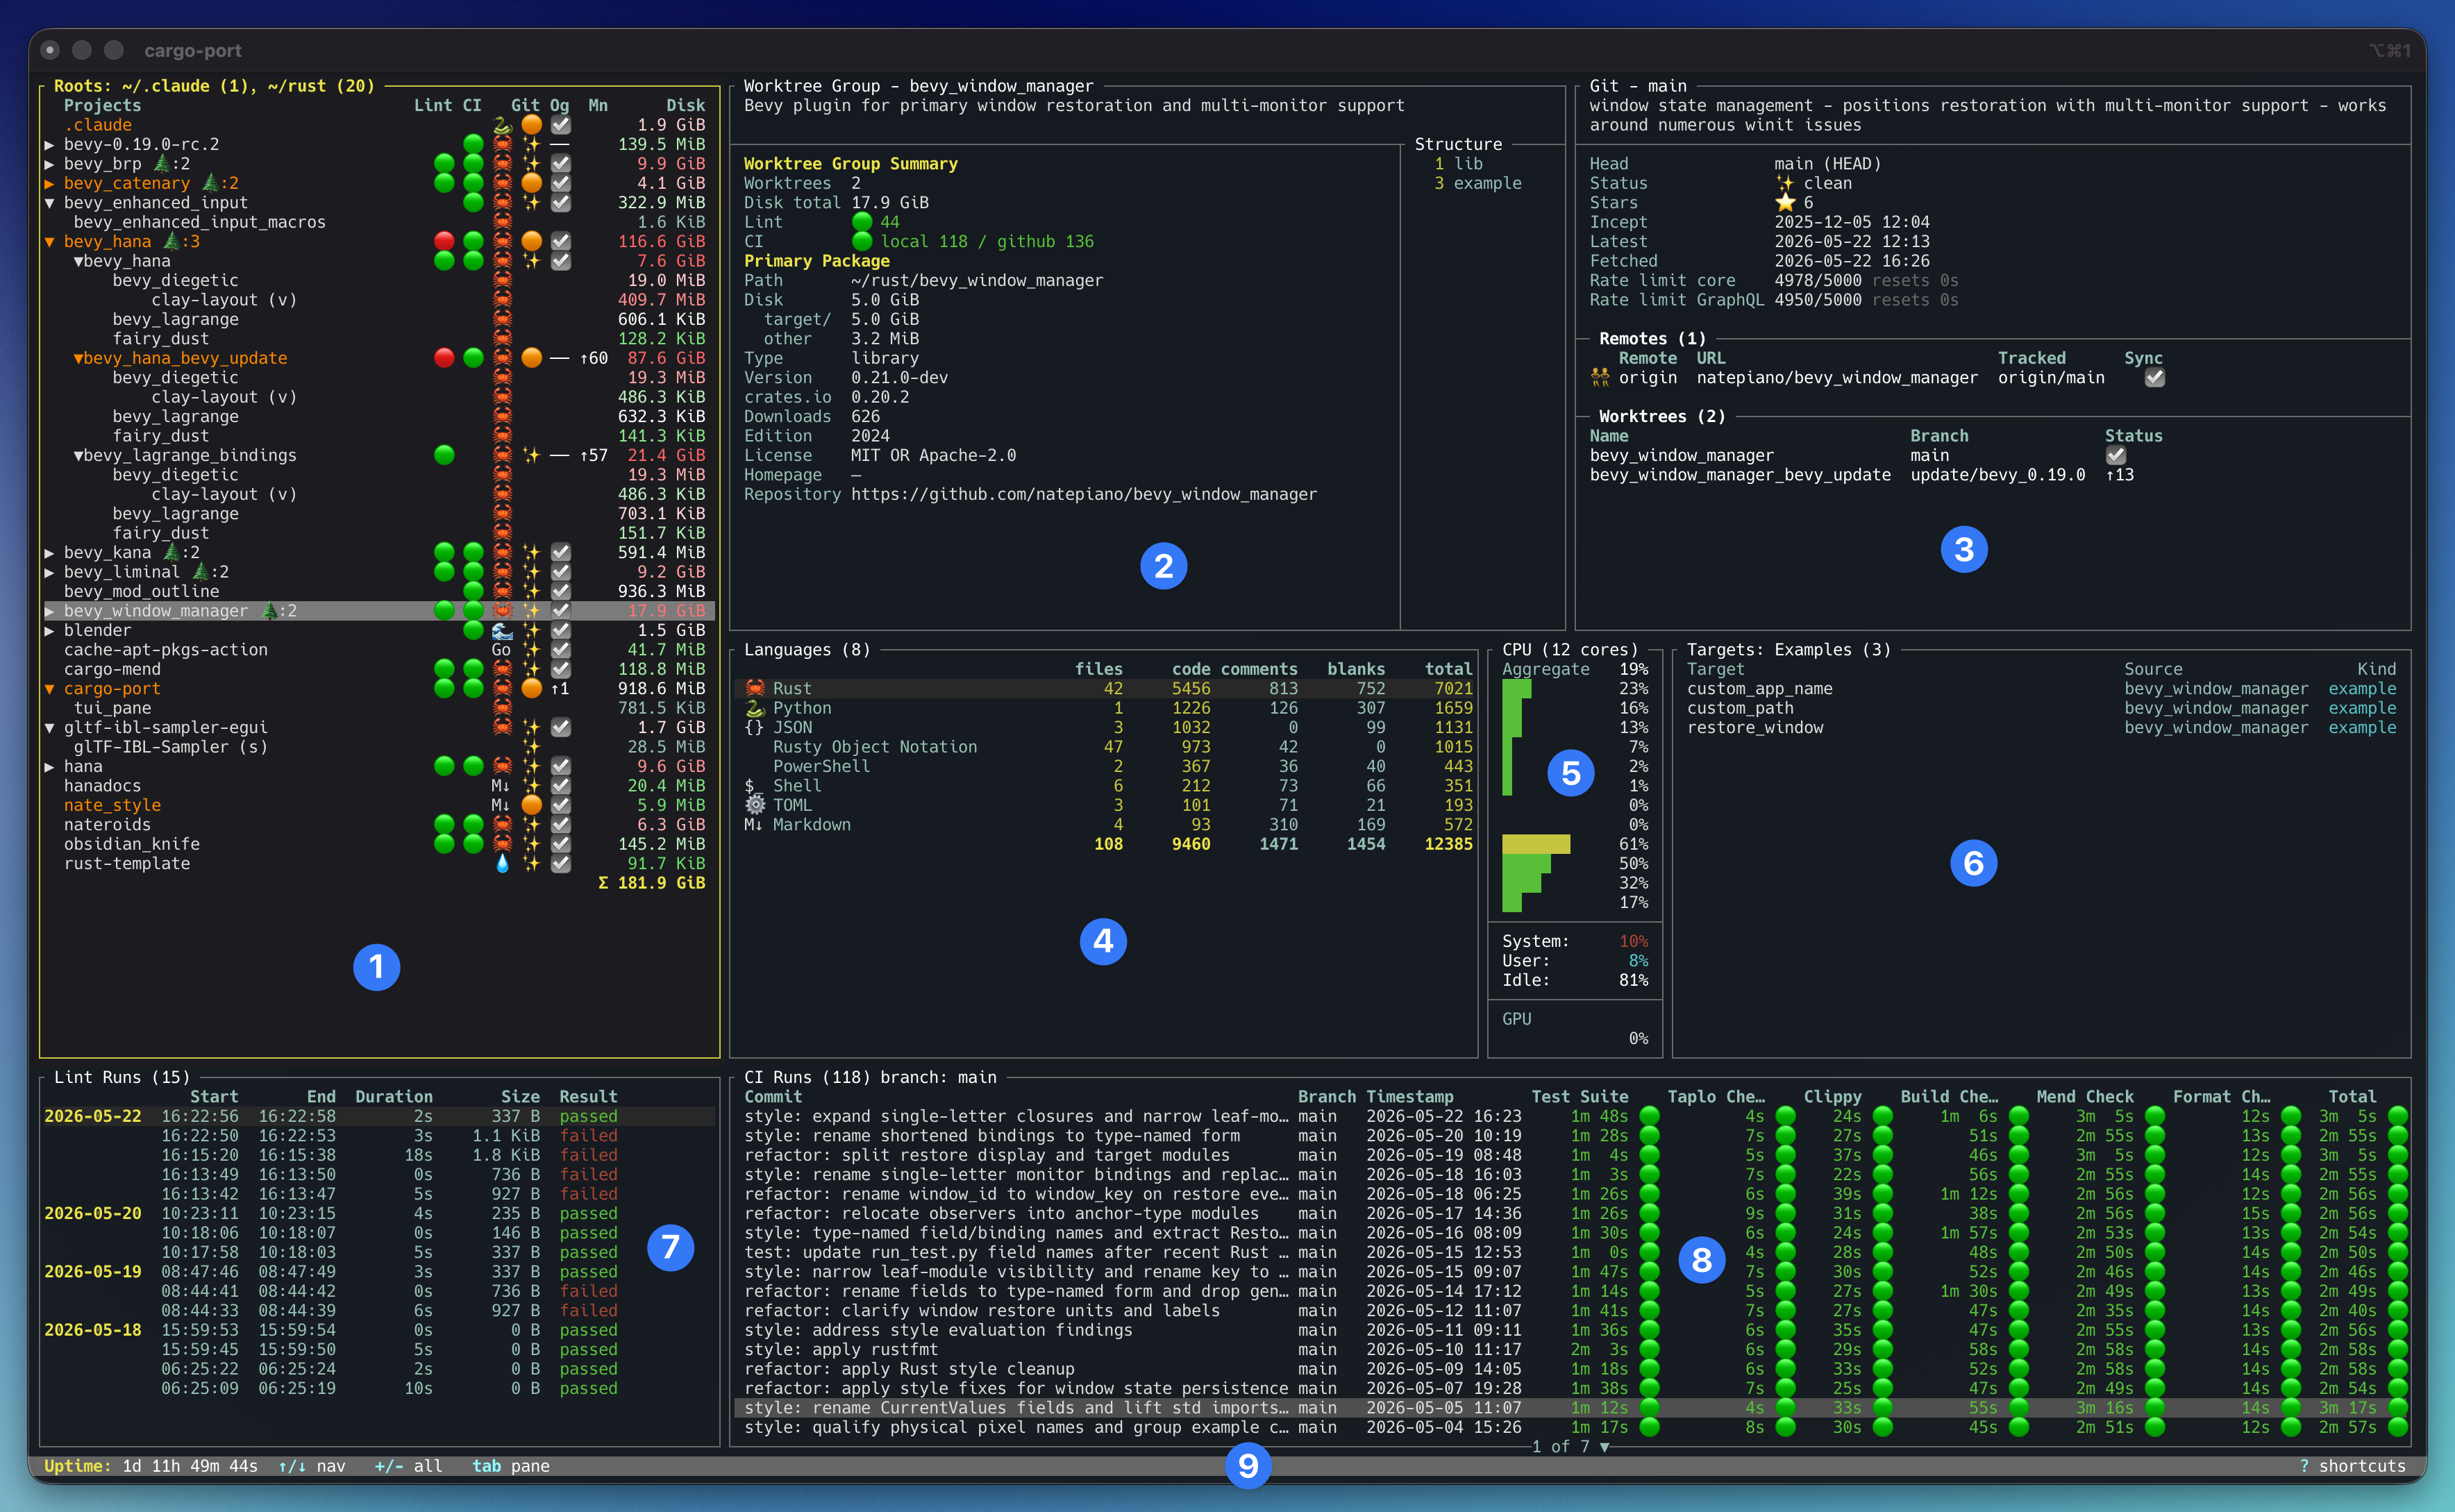
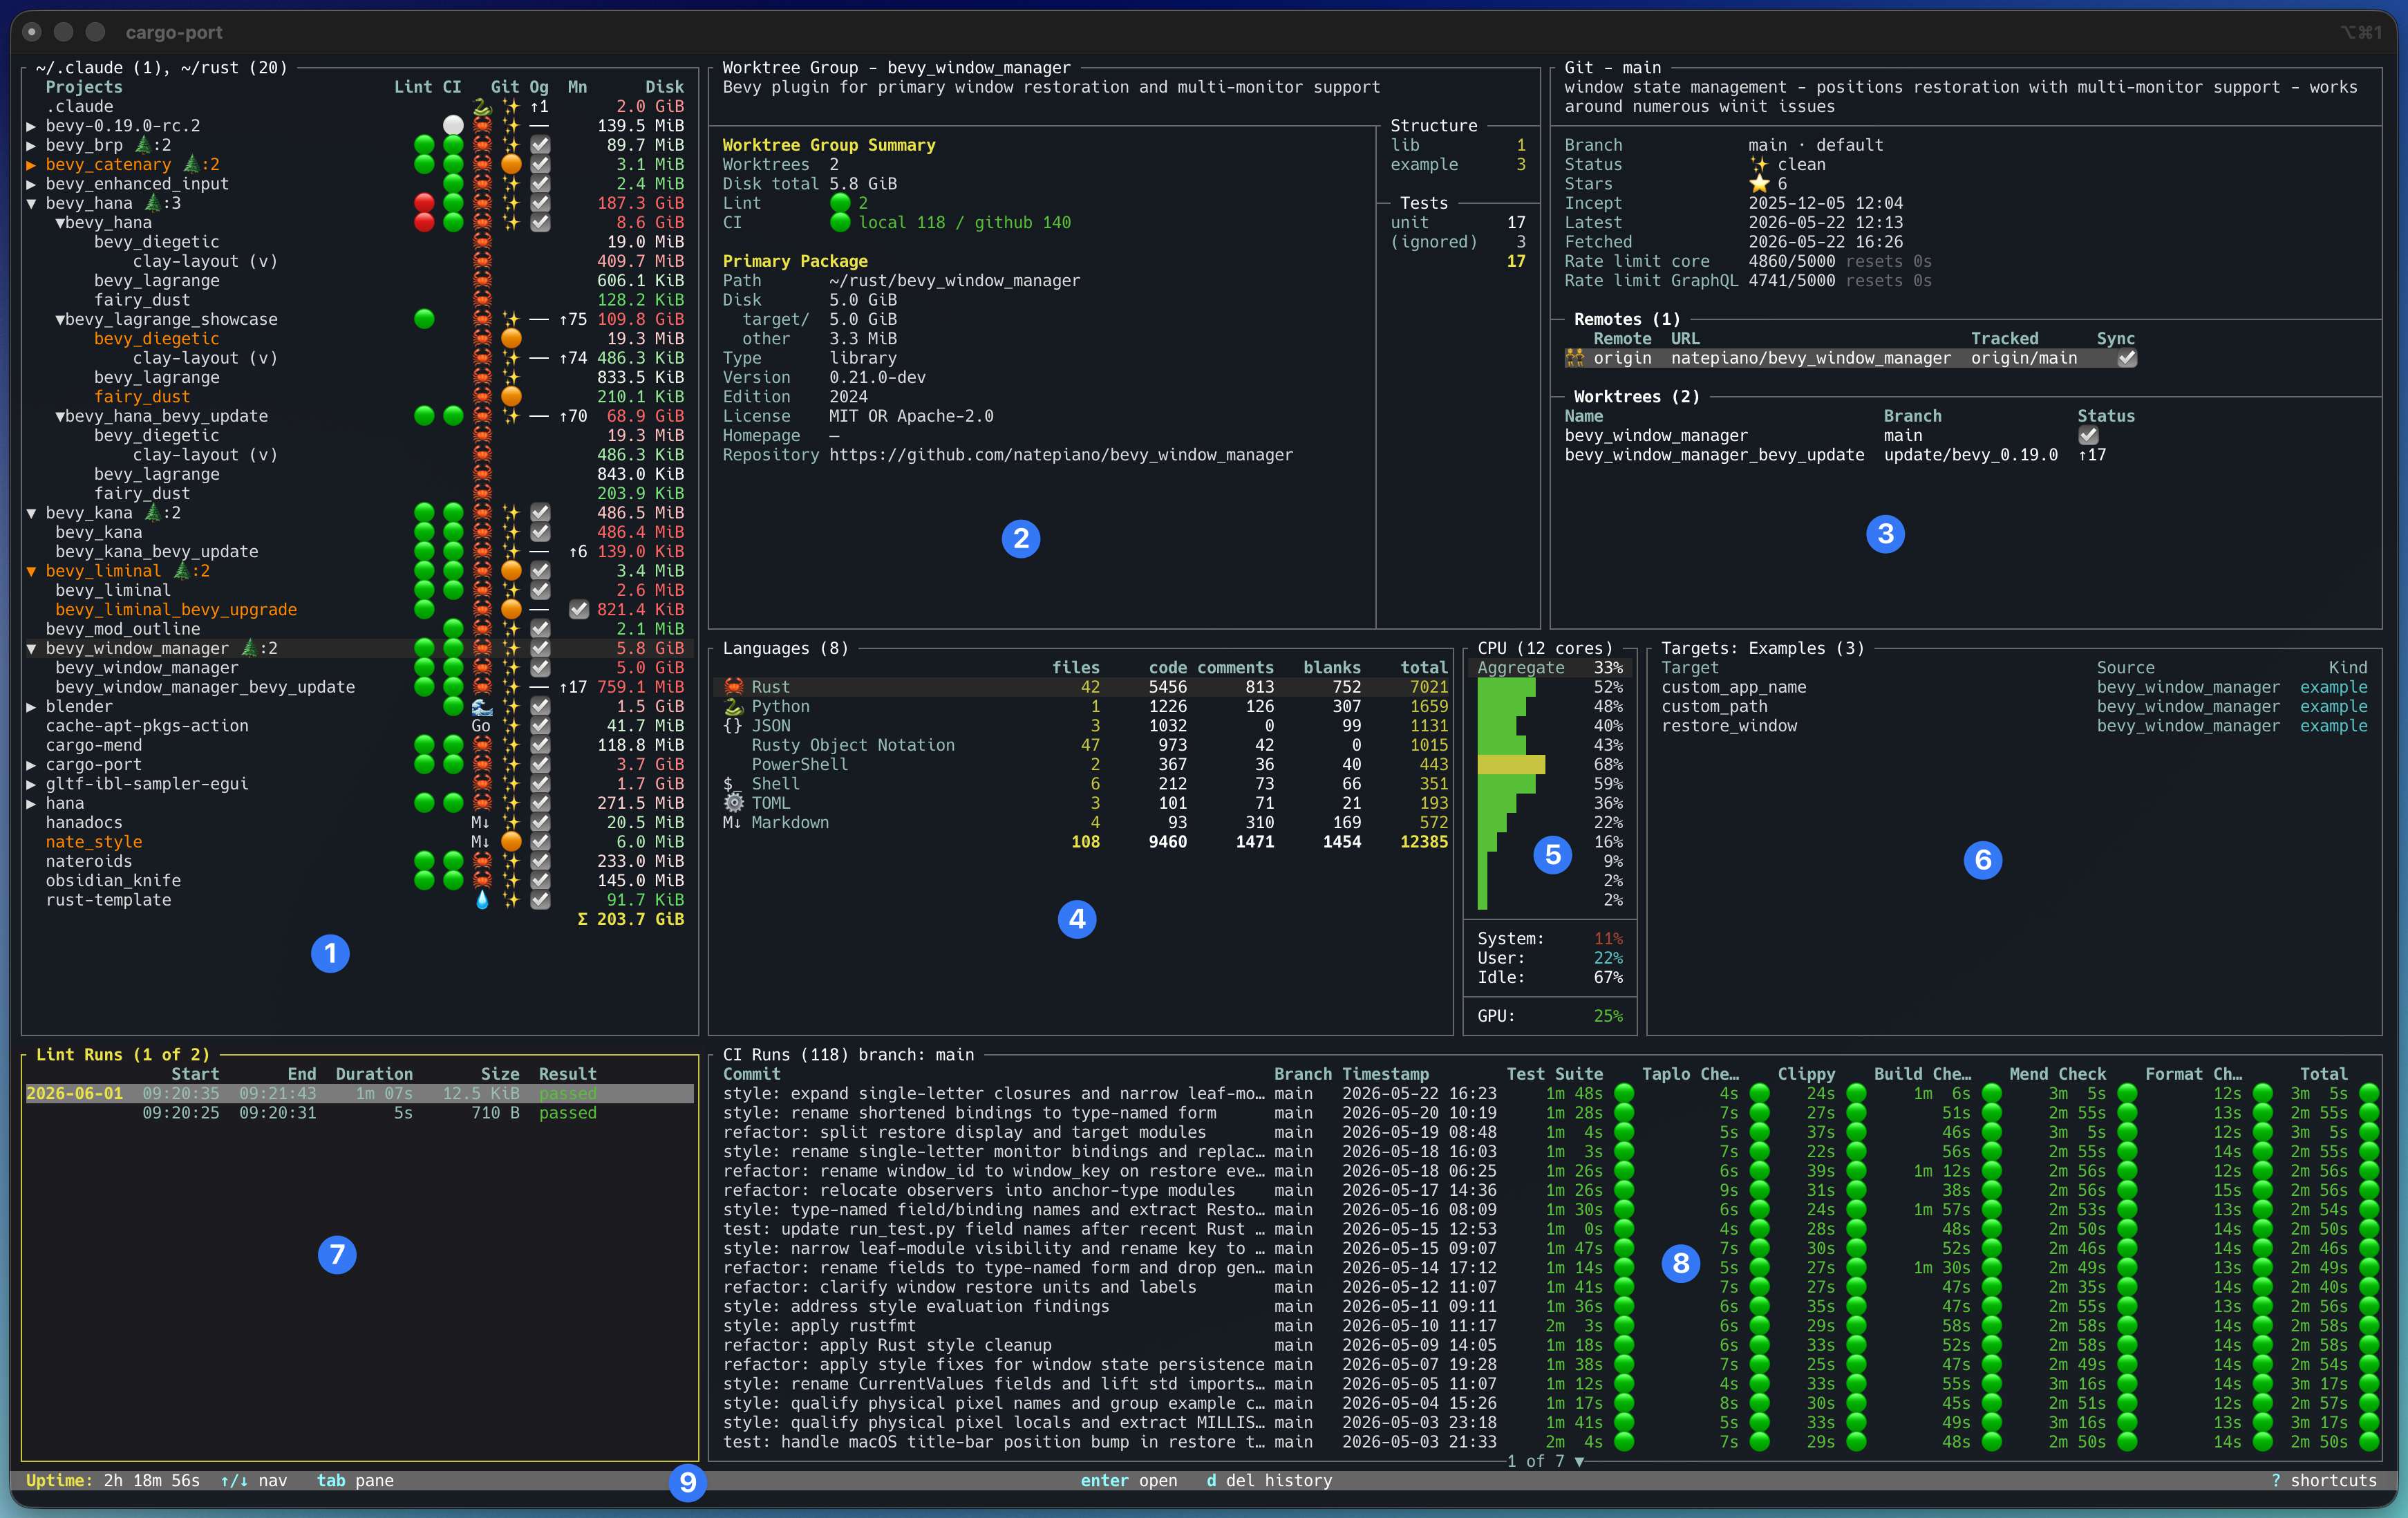
docs: expand README details walkthrough, refresh dashboard screenshots
- Add emoji legend to status columns (CI 🟢🔴⚪⚫, git status, sync ☑️, disk Σ)
- Document worktree-group tree emoji (🌲) and checkout count notation (🌲:2)
- Rename "Workspace Details" section to "Details"; list the six detail
  screen types (worktree group, workspace, package, non-rust, submodule,
  vendored crate)
- Add "Worktree Group Details" subsection covering worktree count, disk,
  lint rollup, and cached vs GitHub CI results
- Add "Primary Package Details" subsection covering path, disk split,
  type, Cargo.toml metadata, structure counts, and test counts
- Refresh dashboard-main, dashboard-overview-numbered, and
  pane-project-tree-numbered screenshots

diff --git a/README.md b/README.md
@@ -62,24 +62,43 @@ The Project Tree is the main navigation point for the app - other panes adapt to
 2. Hierarchical project list with expandable workspaces, members, worktrees, submodules, and vendored crates. You can configure whether non-Rust git projects are included. 
 3. - Status columns
 	1. Lint pass/fail - a lint command configurable in settings. Lint column will show an activity spinner for a currently running lint. 
-	2. CI pass/fail/skipped/cancel. Not shown if ci is not configured or if a remote isn't configured for a branch. Currently only supports GitHub.
-	3. Git status (clean, modified, untracked)
-	4. Origin sync - whether the project is synced with configured origin or ahead/behind
-	5. main sync whether a worktree checkout is synced with the main branch or ahead/behind
-	6. Disk usage
-4. Worktree-group rows with branch and status rollups. Any row with a tree emoji is a worktree group and appends the count of checkouts next to it.  You can expand it to see info about each separate checkout.
+	2. CI passed 🟢, failed 🔴, skipped ⚪, cancelled ⚫. Not shown if ci is not configured or if a remote isn't configured for a branch. Currently only supports GitHub.
+	3. Git status - clean ✨, modified 🟠, untracked 🟢
+	4. Origin sync - whether the project is synced (☑️), with configured origin or ahead/behind
+	5. main sync whether a worktree checkout is synced (☑️) with the main branch or ahead/behind
+	6. Disk usage - <span style="color: yellow;">Σ</span>
+4. Worktree-group rows with branch and status rollups. Any row with a tree emoji (🌲) is a worktree group and appends the count of checkouts next to it (🌲:2).  You can expand it to see info about each separate checkout.
 5. Total disk usage across the visible project set because, you know, rustc consumes a lot of disk.  There is a keyboard shortcut (defaults to 'c') to clean the currently selected workspace/project.
 
-### Workspace Details
+### Details
+There are separate details screens for:
+- Worktree Group
+- Workspace
+- Package
+- Non-rust Project
+- Git Submodule
+- Vendored crate
+We'll show the Worktree Group as an example below. Run the app to see any of these that match up with your projects. They're pretty self-explanatory so we'll just cover the Worktree Group as one of the more comprehensive examples.
 
 <img src="assets/pane-details-numbered.png" alt="Numbered workspace details pane" width="75%">
 
+#### Worktree Group Details
 1. Selected row title and description.
-2. Path on disk
-3. Disk split between `target/` and everything else.
-4. Lint and CI Status
-5. If published, version locally, version on crates.io and download
-6. Structure counts for workspaces, libraries, binaries, proc-macros, examples, test files and benches
+2. Number of worktrees
+3. Total space on disk
+4. Rollup of lint runs - if any are failed this would show failed
+5. CI results from GitHub - counts of what run summaries are locally cached vs only on GitHub
+
+#### Primary Package Details
+This is the path to where the actual .git repo is. Cargo port considers it "primary".
+6. Path on disk
+7. Disk split between `target/` and everything else.
+8. Type
+9. Cargo.toml metadata 
+10. Structure counts for workspaces, libraries, binaries, proc-macros, examples, test files and benches
+11. Counts of tests (unit, integration, doc and ignored)
+
+Missing from this view
 
 ### Git
 